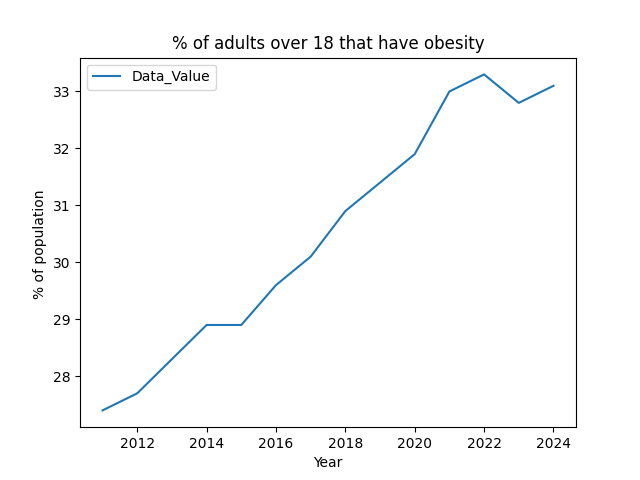
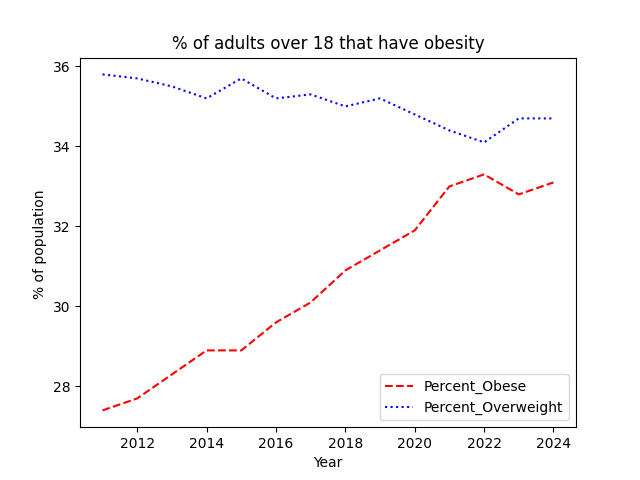
feat: visualisation 2

diff --git a/src/visualisation.py b/src/visualisation.py
@@ -1,11 +1,14 @@
 import matplotlib
 import matplotlib.pyplot as plt
+import pandas as pd
 
 from enums import Region, QuestionID, StratID
 from utils import ensure_dir
 from lib.db import load_df_from_db
 
-df = load_df_from_db("physical_activity")
+matplotlib.use('tkagg')
+
+df = load_df_from_db("merged_dataset")
 
 def filter_stats(
     region: Region,
@@ -18,22 +21,72 @@ def filter_stats(
         .loc[df['QuestionID'] == questionID.value] \
         .convert_dtypes()
 
-def visualise_data():
-    filtered = filter_stats(Region.ALL, StratID.OVERALL, QuestionID.OBESITY_18_PLUS)
+def filter_stats_year(
+    year: int,
+    stratID: StratID,
+    questionID: QuestionID,
+):
+    return df \
+        .loc[df['Year'] == year] \
+        .loc[df['StratificationID1'] == stratID.value] \
+        .loc[df['QuestionID'] == questionID.value] \
+        .convert_dtypes()
 
-    filtered.plot(x="Year", y="Data_Value", kind="line")
+def visualisation1():
+    obesity_df = filter_stats(Region.ALL, StratID.OVERALL, QuestionID.OBESITY_18_PLUS)
+    overweight_df = filter_stats(Region.ALL, StratID.OVERALL, QuestionID.OVERWEIGHT_18_PLUS)
+
+    # Rename cols so when we merge them they don't collide
+    obesity_df.rename(columns={ 'Data_Value': 'Percent_Obese' }, inplace=True)
+    overweight_df.rename(columns={ 'Data_Value': 'Percent_Overweight' }, inplace=True)
+
+    merged_df = pd.merge(obesity_df, overweight_df, on='Year')
+
+    merged_df.plot(
+        x="Year", 
+        y=["Percent_Obese", "Percent_Overweight"], 
+        style={
+            "Percent_Obese": "r--",
+            "Percent_Overweight": "b:"
+        },
+    )
 
     plt.title("% of adults over 18 that have obesity")
     plt.xlabel("Year")
     plt.ylabel("% of population ")
-
-    matplotlib.use('tkagg')
 
     # Save to file
     ensure_dir('./figures/')
     plt.savefig('./figures/figure1.png')
 
     plt.show()
+
+def visualisation2():
+    res = filter_stats_year(2024, StratID.OVERALL, QuestionID.OBESITY_18_PLUS)
+
+    res.rename(columns={ 'Data_Value': 'Percent_Obese' }, inplace=True)
+    
+    res.plot.scatter(
+        x="Walkability_Index", 
+        y="Percent_Obese",
+        c="Percent_Obese",
+    )
+
+    plt.title("State Walkability Index vs % of State population in 'Obese' weight class")
+    # plt.xlabel("Year")
+    # plt.ylabel("% of population ")
+
+    # Save to file
+    ensure_dir('./figures/')
+    plt.savefig('./figures/figure2.png')
+
+    plt.show()
+
+def visualise_data():
+    # Obesity and overweight change over time
+    # visualisation1()
+
+    visualisation2()
 
 if __name__ == "__main__":
     visualise_data()

diff --git a/src/processing.py b/src/processing.py
@@ -135,7 +135,7 @@ def process_df2():
     df2 = df2.filter(['STATEFP', 'NatWalkInd'])
     print("1. Removed unneeded cols from DataFrame")
 
-    df2 = df2.groupby("STATEFP", as_index=False)["NatWalkInd"].mean()
+    df2 = df2.groupby("STATEFP", as_index=False)["NatWalkInd"].mean().to_frame()
     print("2. Averaged state walkability by mean")
 
     # https://en.wikipedia.org/wiki/Federal_Information_Processing_Standard_state_code
@@ -199,14 +199,13 @@ def process_df2():
     df2.dropna(inplace=True)
 
     print("3. Attached state alphanumeric as LocationAbbr")
-
     
-    df2['Walkability_Index'] = df2['NatWalkInd']
+    df2.rename(columns={ 'NatWalkInd': 'Walkability_Index' }, inplace=True)
     print ("4. Renamed NatWalkInd into Walkability_Index")
 
-    df2.drop(axis='columns', labels=['STATEFP', 'NatWalkInd'], inplace=True)
+    df2.drop(axis='columns', labels=['STATEFP'], inplace=True)
 
-    print("4. Removed STATEFP and old NatWalkInd cols")
+    print("4. Removed old STATEFP col")
 
     print("Finished cleaning DataFrame 2")
 
@@ -214,7 +213,7 @@ def process_df2():
 
 def merge_datasets(df1, df2):
     print("Mering DataFrames on LocationAbbr...")
-    df = pd.merge(df1, df2, on='LocationAbbr')
+    df = pd.merge(df1, df2, on='LocationAbbr', how='left')
 
     print("Saving merged DataFrame to DB...")
     df.to_sql(
